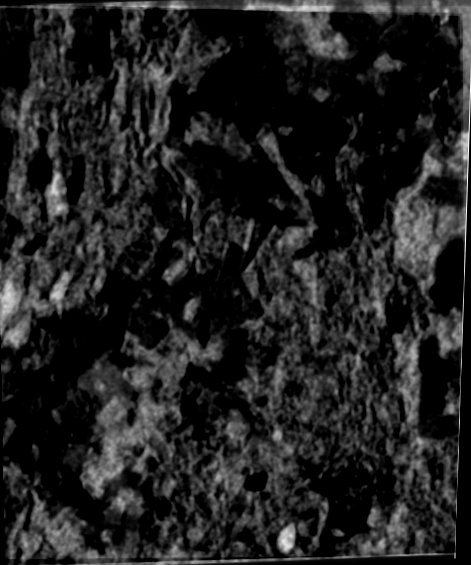
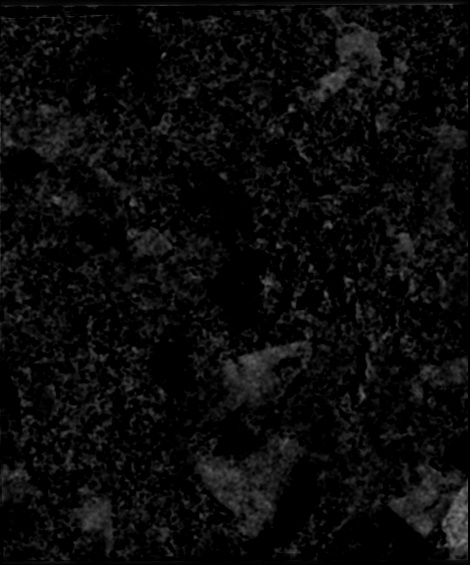
difference somehow x2

diff --git a/difference.py b/difference.py
@@ -9,8 +9,33 @@ avg = None
 images = list(sorted(glob('difference/*.*')))
 
 print(images)
-img_a = cv2.imread(images[1])
-img_b = cv2.imread(images[0])
+img_a = cv2.imread(images[0])
+img_b = cv2.imread(images[1])
+
+# TODO: also bad
+# shape_a, shape_b = img_a.shape, img_b.shape
+#
+# print(shape_a > shape_b, shape_a , shape_b)
+# if shape_a > shape_b:
+#     larger_image = img_a
+#     smaller_image = img_b
+#     blank_image = np.zeros(larger_image.shape, np.uint8)
+#     h, w, *_ = smaller_image.shape
+#     blank_image[:h, :w] = smaller_image
+#
+#     img_b = blank_image
+# else:
+#     larger_image = img_b
+#     smaller_image = img_a
+#     blank_image = np.zeros(larger_image.shape, np.uint8)
+#     h, w, *_ = smaller_image.shape
+#     blank_image[:h, :w] = smaller_image
+#
+#     img_a = blank_image
+#
+print(img_a.shape, img_b.shape)
+
+# TODO: bad
 h, w, *_ = img_a.shape
 img_b = cv2.resize(img_b, (w, h), interpolation=cv2.INTER_CUBIC)
 
@@ -24,12 +49,14 @@ warp_matrix = np.eye(2 + extra, 3, dtype=np.float32)
 subject = cv2.cvtColor(img_a, cv2.COLOR_BGR2GRAY)
 reference = cv2.cvtColor(img_b, cv2.COLOR_BGR2GRAY)
 
+# https://stackoverflow.com/questions/49136202/how-to-use-opencv-warpperspective-to-overlay-without-overwriting-values?rq=1
 s, warp_matrix = cv2.findTransformECC(subject, reference, warp_matrix, warp_mode)
 w, h, *_ = subject.shape
 
-if warp_mode == cv2.MOTION_HOMOGRAPHY:
-    # Use warpPerspective for Homography
-    img_a = cv2.warpPerspective(img_a, warp_matrix, (h, w))
+# Use warpPerspective for Homography
+img_a = cv2.warpPerspective(img_a, warp_matrix, (h, w))
+
+print(img_a.shape, img_b.shape)
 
 base = "/home/microwave/PycharmProjects/untitled/difference/"
 cv2.imwrite(base + "results/img_a.jpg", img_a)

diff --git a/auto_stack.py b/auto_stack.py
@@ -12,6 +12,7 @@
 # python auto_stack.py "/home/microwave/PycharmProjects/untitled/output-JUN-JUL/R_1.0 S_2017-06-01 E_2018-8-01 L_IW_VH" "output-JUN-JUL/iw-vh-%s.jpg"
 # python auto_stack.py "/home/microwave/PycharmProjects/untitled/output-SEP-OCT/R_1.0 S_2017-09-01 E_2018-11-01 L_IW_VH" "output-SEP-OCT/iw-vh-%s.jpg"
 # python auto_stack.py "/home/microwave/PycharmProjects/untitled/imgs/asd" "imgs/iw-vh-%s.jpg"
+# python auto_stack.py "/home/microwave/PycharmProjects/untitled/imgs/imgs-2017" "imgs/iw-vh-%s.jpg"
 
 import os
 import cv2
@@ -40,7 +41,7 @@ def stack_images_ecc(file_list, base=None, median_kernel_size=17, gaussian_kerne
 
     for i, file in enumerate(file_list):
         image = cv2.imread(file, 0)
-        image = image[:-100, :]
+        # image = image[:-100, :]
 
         if stacked_image is not None and stacked_image.shape != image.shape:
             print("Resizing", stacked_image.shape, image.shape)
